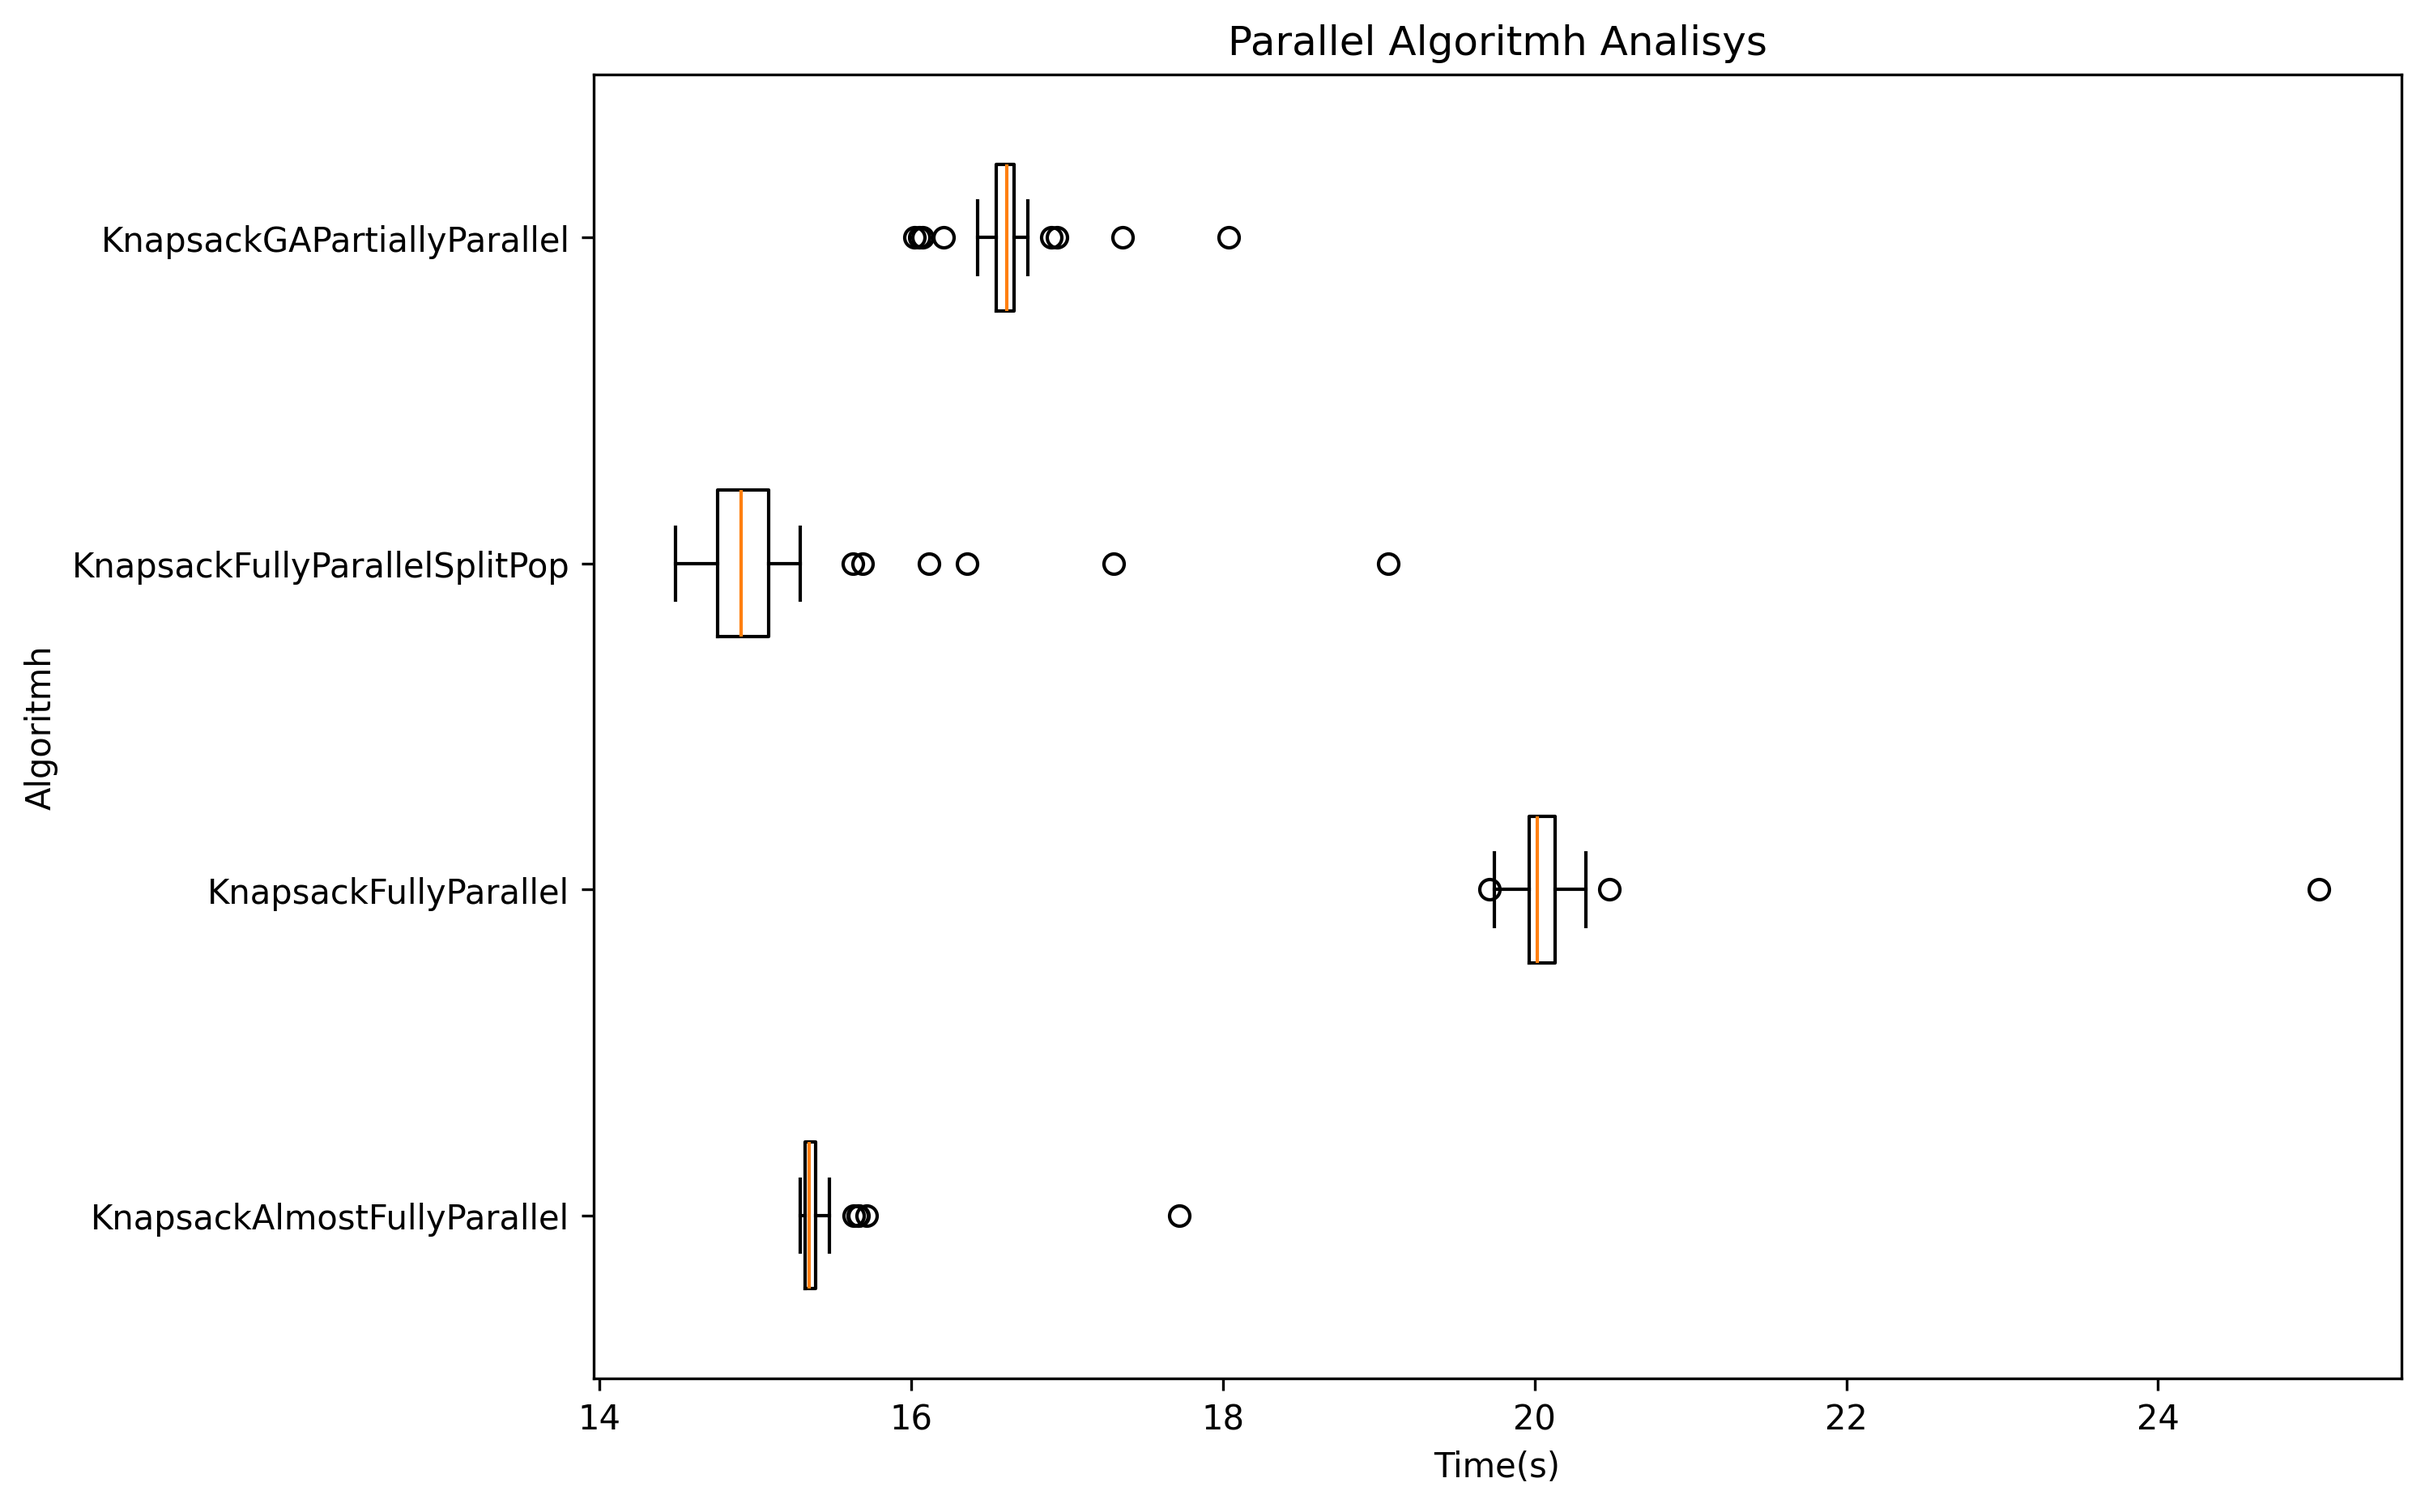
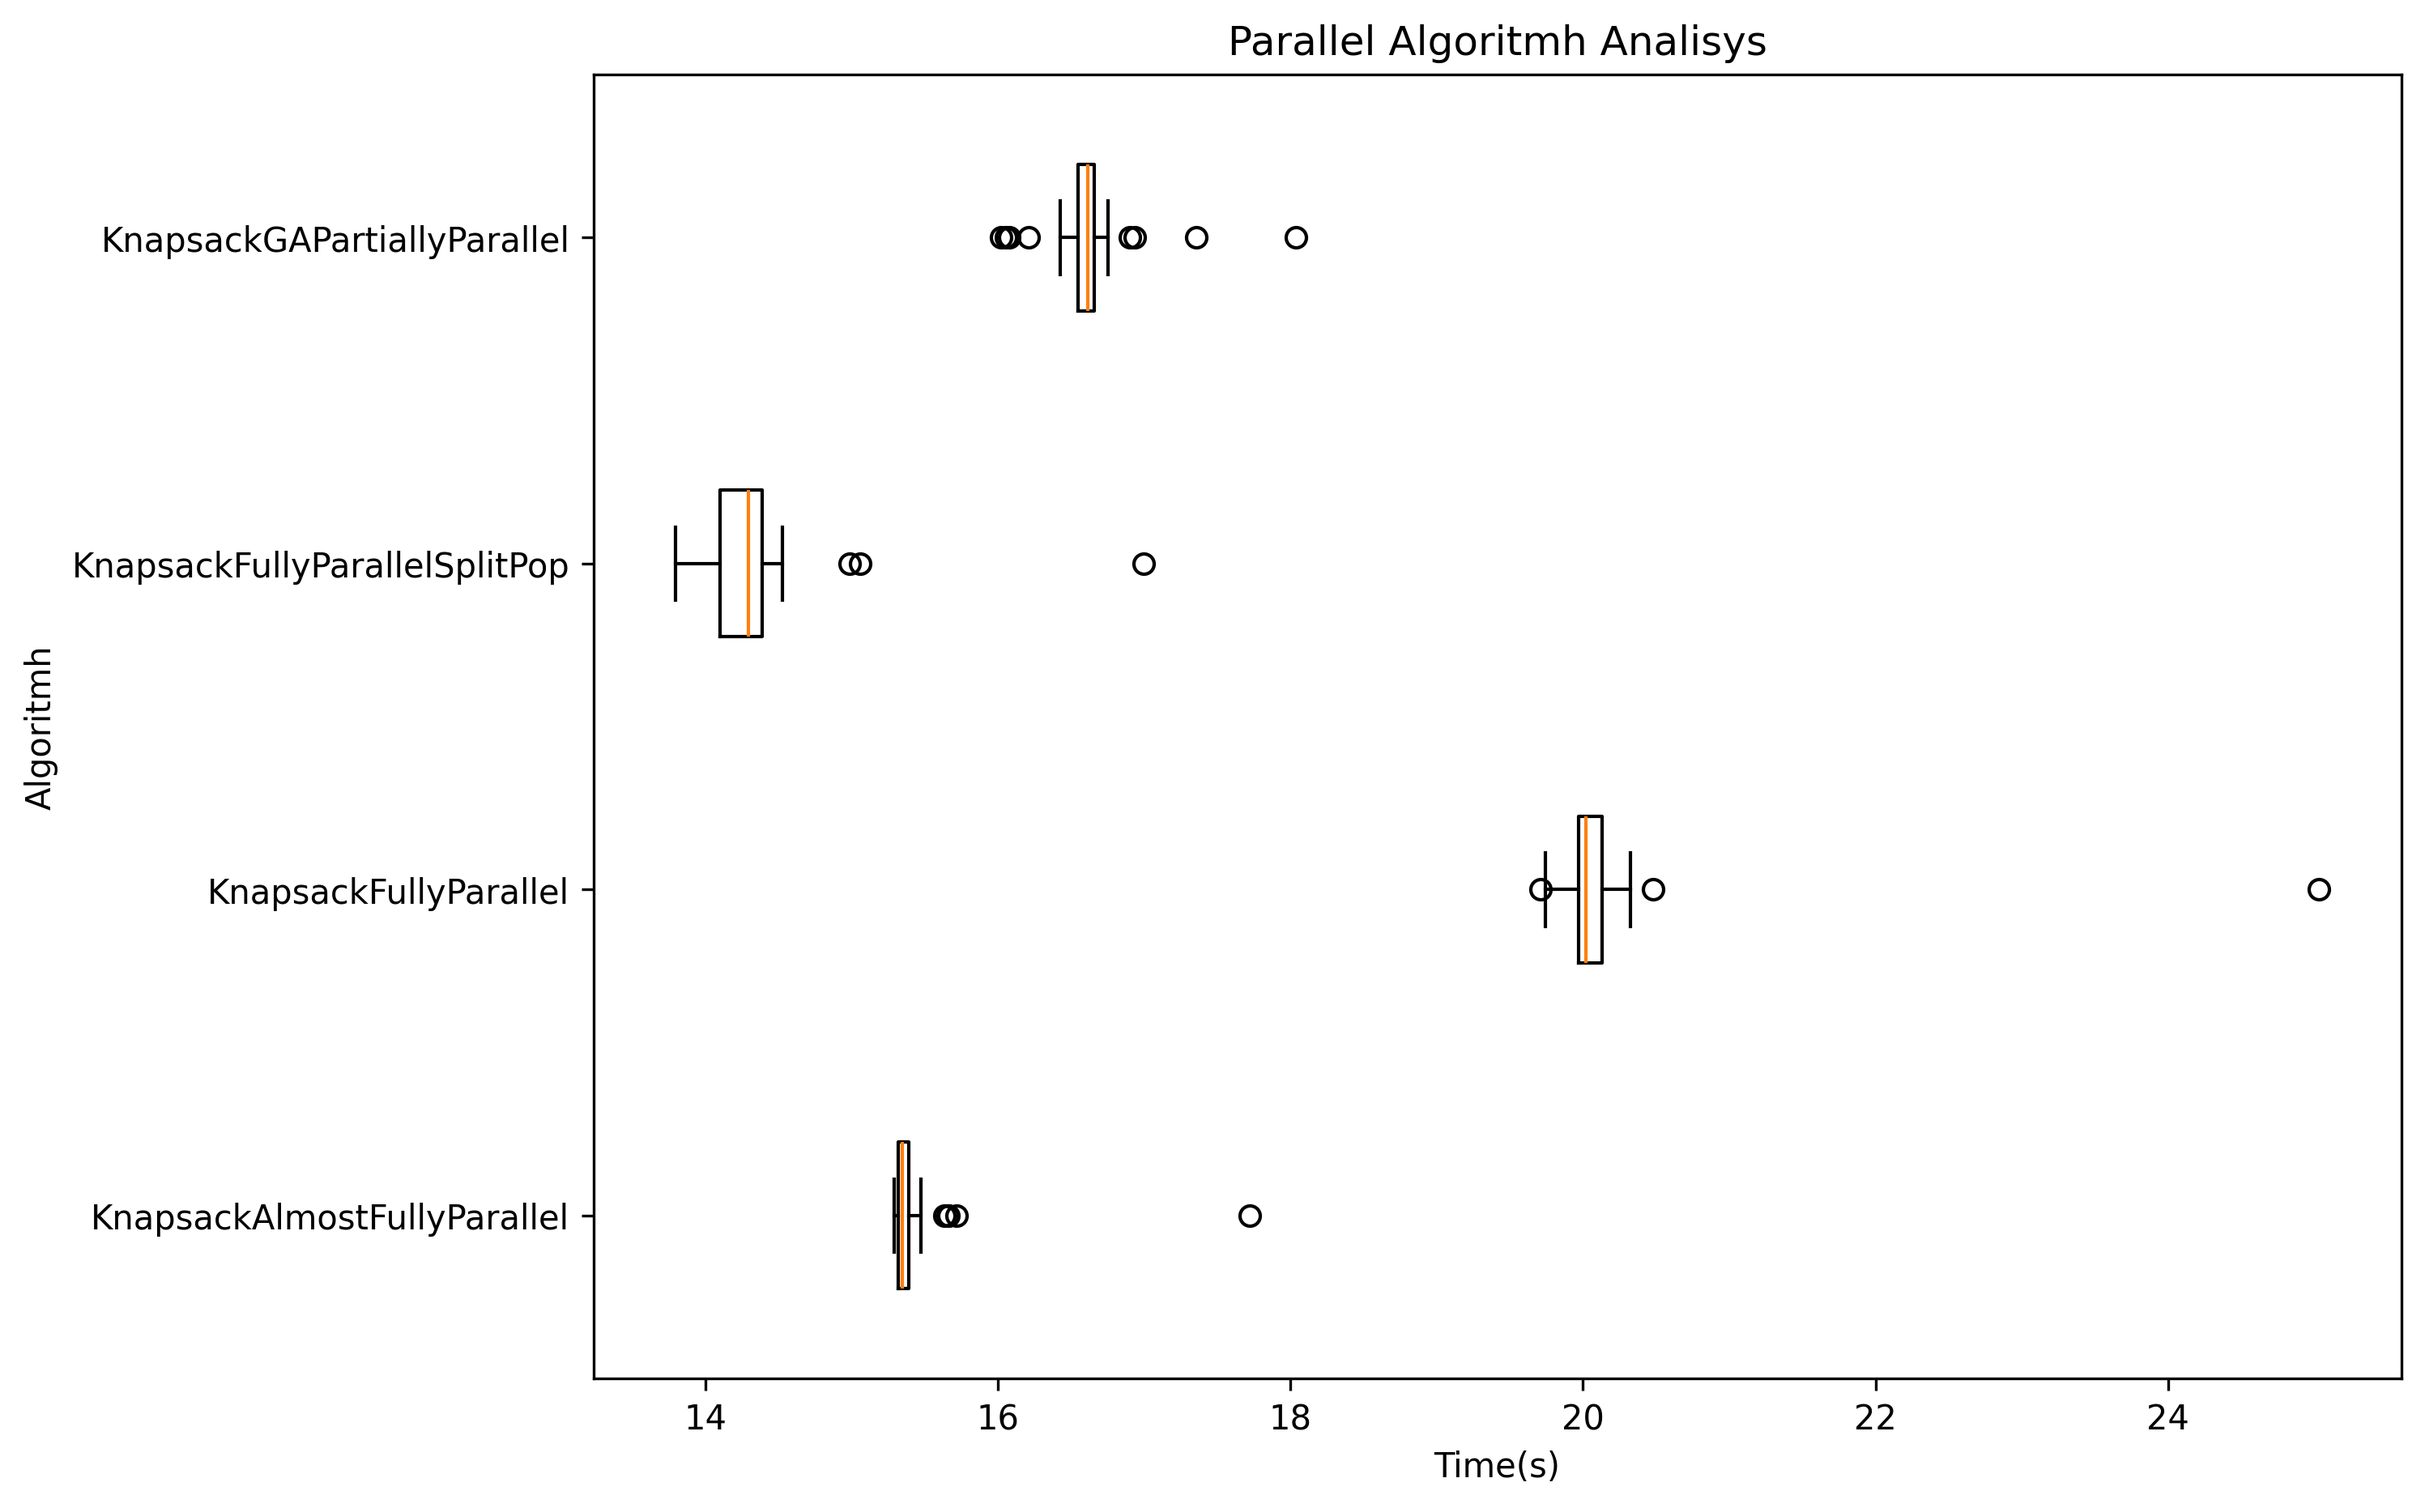
Bug fix

diff --git a/src/main/java/fcul/ppc/implementations/KnapsackFullyParallelSplitPop.java b/src/main/java/fcul/ppc/implementations/KnapsackFullyParallelSplitPop.java
@@ -54,8 +54,8 @@ public class KnapsackFullyParallelSplitPop implements KnapsackInterface {
                 ThreadLocalRandom r = ThreadLocalRandom.current();
                 for (int i = startIndex; i < endIndex; i++) {
                     // We select two parents, using a tournament.
-                    Individual parent1 = tournament(TOURNAMENT_SIZE, r);
-                    Individual parent2 = tournament(TOURNAMENT_SIZE, r);
+                    Individual parent1 = tournament(TOURNAMENT_SIZE, r,startIndex,endIndex);
+                    Individual parent2 = tournament(TOURNAMENT_SIZE, r,startIndex,endIndex);
 
                     newPopulation[i] = parent1.crossoverWith(parent2, r);
                 }
@@ -73,14 +73,14 @@ public class KnapsackFullyParallelSplitPop implements KnapsackInterface {
         }
     }
 
-    private Individual tournament(int tournamentSize, Random r) {
+    private Individual tournament(int tournamentSize, Random r,int startIndex,int endIndex) {
         /*
          * In each tournament, we select tournamentSize individuals at random, and we
          * keep the best of those.
          */
-        Individual best = population[r.nextInt(POP_SIZE)];
+        Individual best = population[randomBetweenInterval(startIndex,endIndex,r)];
         for (int i = 0; i < tournamentSize; i++) {
-            Individual other = population[r.nextInt(POP_SIZE)];
+            Individual other = population[randomBetweenInterval(startIndex,endIndex,r)];
             if (other.fitness > best.fitness) {
                 best = other;
             }
@@ -100,5 +100,7 @@ public class KnapsackFullyParallelSplitPop implements KnapsackInterface {
         }
         return best;
     }
-
+    private int randomBetweenInterval(int min, int max,Random r) {
+        return r.nextInt(min, max);
+    }
 }

diff --git a/src/main/java/fcul/ppc/KnapsackMain.java b/src/main/java/fcul/ppc/KnapsackMain.java
@@ -24,7 +24,7 @@ public class KnapsackMain {
         timedKnapsackExecution(knapsackFullyParallel);//Slower because we waster more time waiting for others in each generation then creating threads and proecess all at once separatelly
         timedKnapsackExecution(knapsackAlmostFullyParallel);
         timedKnapsackExecution(gaPartiallyParallel);
-        //timedKnapsackExecution(ga);
+        timedKnapsackExecution(ga);
     }
 
     public static void timedKnapsackExecution(KnapsackInterface knapsack) {
@@ -39,6 +39,7 @@ public class KnapsackMain {
                 knapsack.run();
                 Instant finish = Instant.now();
                 long timeElapsed = Duration.between(start, finish).toMillis();
+                System.out.println("Time taken: " + (double)timeElapsed/1000 + " seconds");
                 data.add(Arrays.asList(Integer.toString(i),Double.toString( (double) timeElapsed / 1000)));
             }
             for (List<String> rowData : data) {
